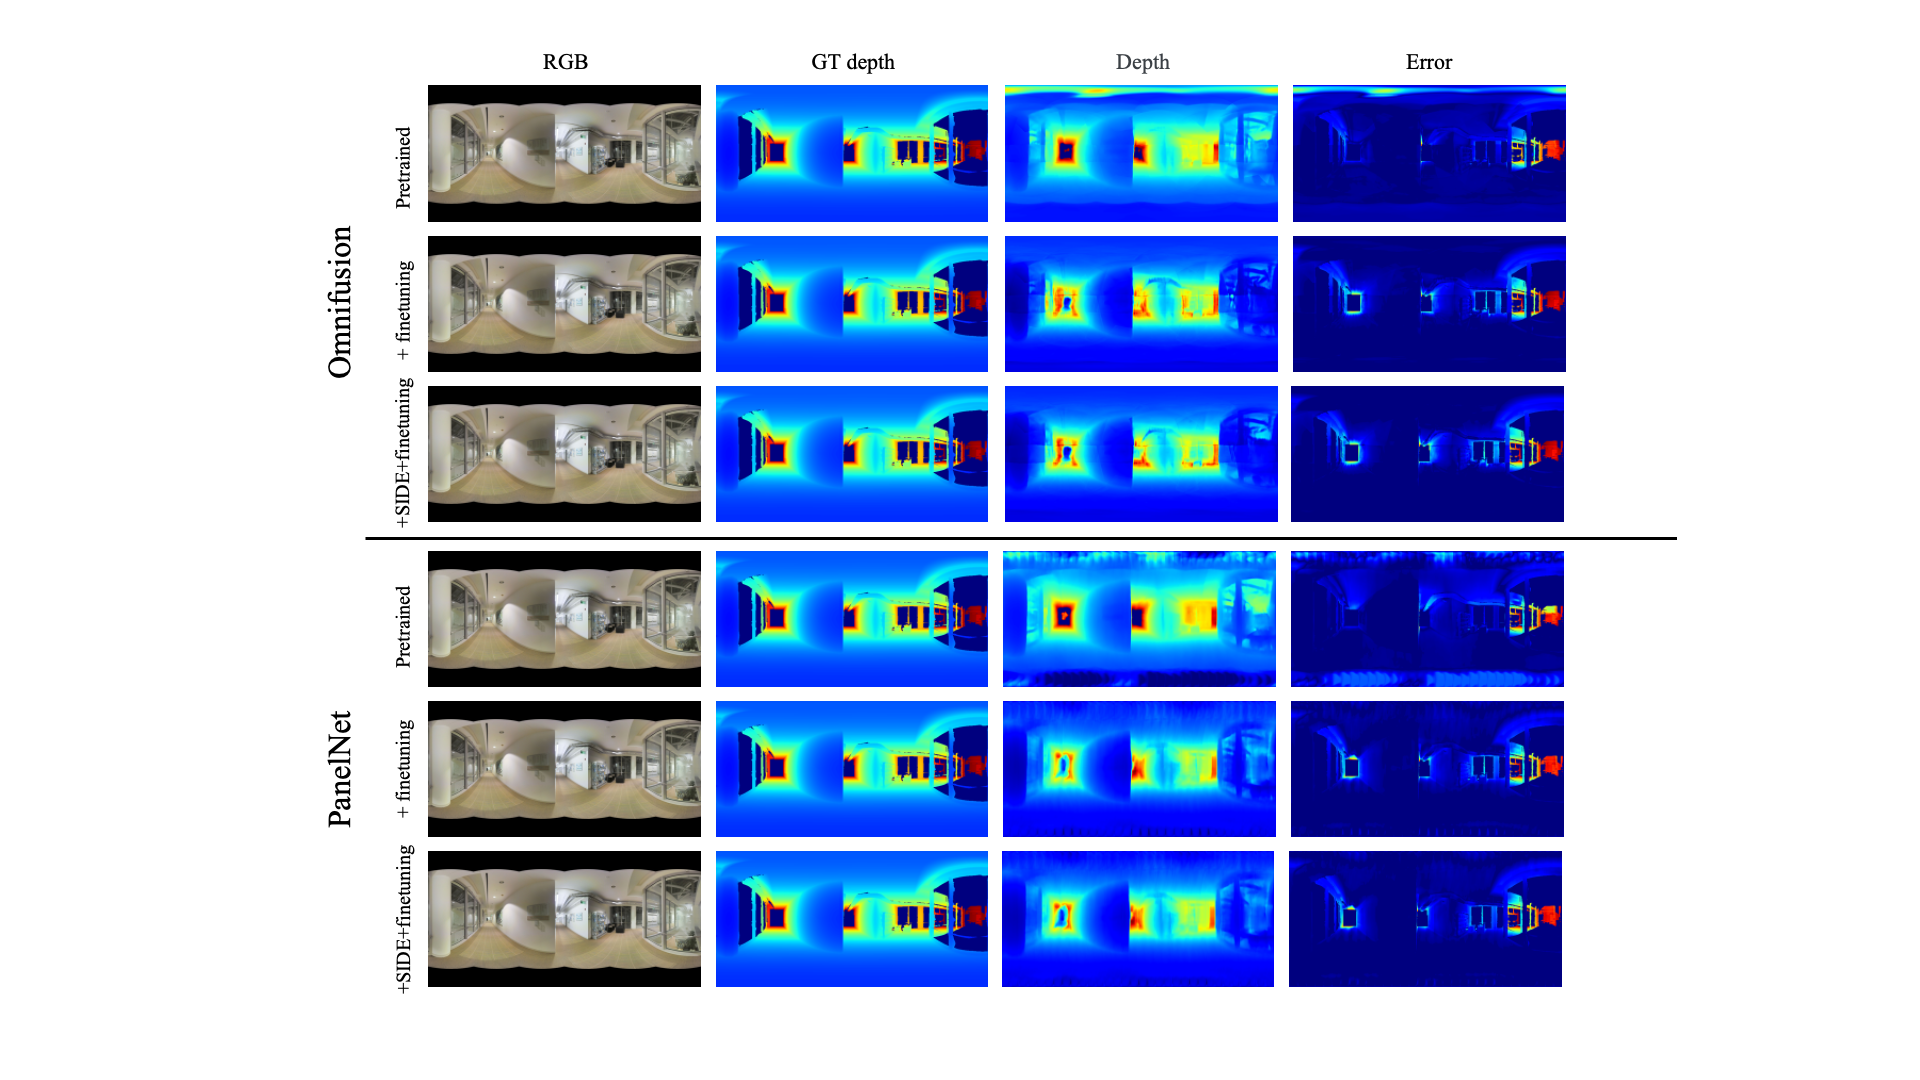
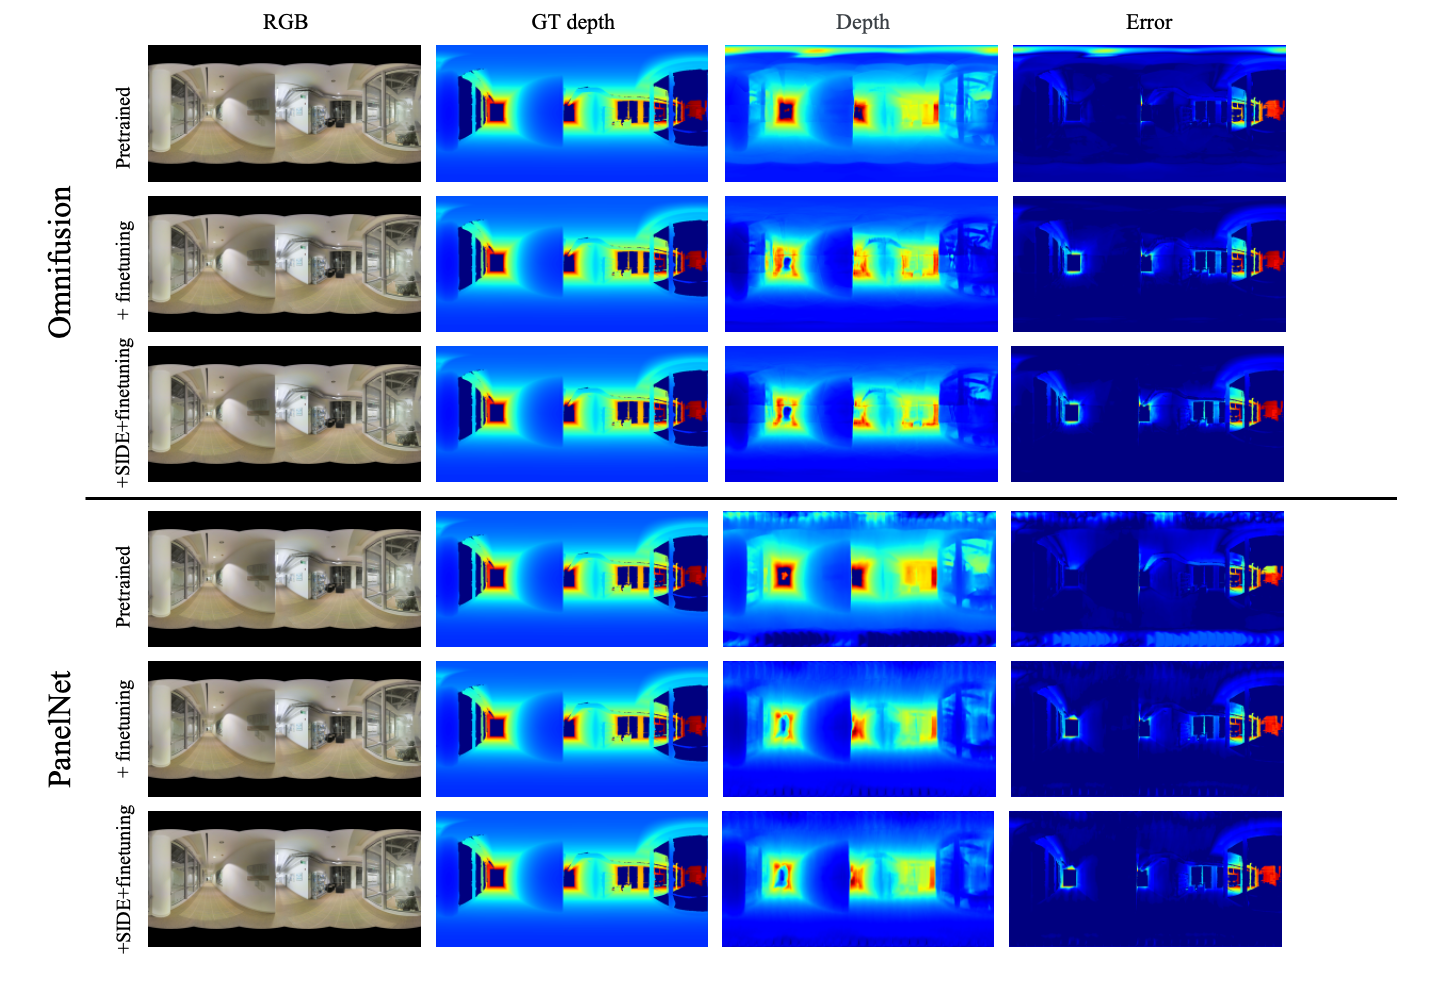
SIDE_project

diff --git a/SIDE_project/index.html b/SIDE_project/index.html
@@ -146,7 +146,7 @@ Indoor 360 depth estimation is an important task in computer vision for its broa
             </div>
         </div>
 
-        <image src="img/SIDE_overview.png" class="img-responsive" alt="overview" width="70%" style="max-height: 450px;margin:auto;">
+        <image src="img/SIDE_overview.png" class="img-responsive" alt="overview" width="100%" style="max-height: 450px;margin:auto;">
 
 <!--        <div class="row">-->
 <!--            <div class="col-md-8 col-md-offset-2">-->
